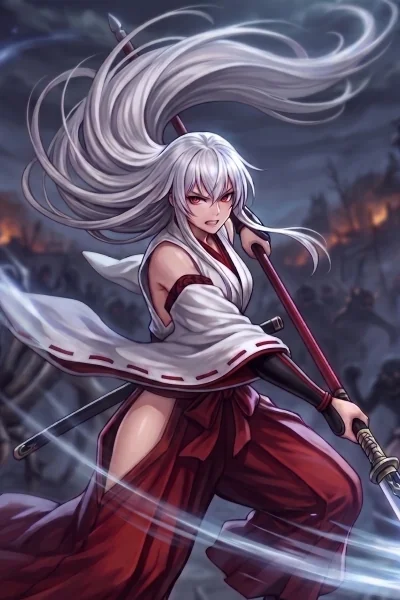
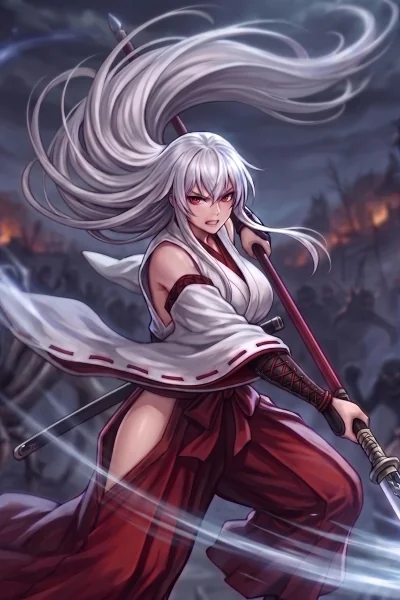
8/8 0.3 新キャラ追加 大二郎

diff --git a/src/services/uiMainCore.js b/src/services/uiMainCore.js
@@ -1489,13 +1489,22 @@ export function openEnemyDeckPreview(level) {
     const isLeaderSkillChanged =
       GameState.fortuneHandicaps &&
       GameState.fortuneHandicaps.enemy_leader_skill_change;
-    if (isLeaderSkillChanged && enemyCharId === 'automata') {
-      leaderSkill = {
-        name: 'ラスト・バタリオン',
-        desc: '(SP:3) 自分のレーンに「オートマタ(P:1)」を1体配置する。その後、そのレーンのカードをただちに攻撃させる。これを5回繰り返す。',
-        cost: 3,
-        action: 'last_battalion',
-      };
+    if (isLeaderSkillChanged) {
+      if (enemyCharId === 'automata') {
+        leaderSkill = {
+          name: 'ラスト・バタリオン',
+          desc: '(SP:3) 自分のレーンに「オートマタ(P:1)」を1体配置する。その後、そのレーンのカードをただちに攻撃させる。これを5回繰り返す。',
+          cost: 3,
+          action: 'last_battalion',
+        };
+      } else if (enemyCharId === 'valkyria') {
+        leaderSkill = {
+          name: 'ラグナロク',
+          desc: '(SP:4) 敵の場のすべてのカードに4ダメージを与える。次の自分のターン開始時まで、自分のカードは破壊されず、リーダーとカードが受ける全てのダメージを0にする。',
+          cost: 4,
+          action: 'ragnarok',
+        };
+      }
     }
 
     if (window.showEnemyDeckModal) {

diff --git a/src/pages/DialogueScreen.jsx b/src/pages/DialogueScreen.jsx
@@ -5,6 +5,11 @@ import { GameState } from '../state/gameState.js';
 import { appendVersionQuery } from '../utils/constants/config.js';
 import { checkIsFortuneMode, checkIsHighDiffMode } from '../utils/gameUtils.js';
 
+/**
+ * ダイアログ（会話）画面コンポーネント
+ * ストーリーや各イベント、試練の宮殿等の会話演出を表示する。
+ * @returns {JSX.Element} 会話画面コンポーネント
+ */
 export default function DialogueScreen() {
   const [dialogueData, setDialogueData] = useState(
     () => window.currentDialogueData || {}
@@ -92,7 +97,13 @@ export default function DialogueScreen() {
   ) {
     bgName = 'background_highdifficulty.webp';
   } else if (checkIsFortuneMode(GameState.gameMode)) {
-    bgName = 'background_fortune01.webp';
+    // 運命の邂逅イベント：対戦相手固有のステージ背景を優先参照する（設定がない場合は汎用背景 fallback）
+    const stageId =
+      GameState.selectedStageId ||
+      GameState.enemyConfig?.stageId ||
+      GameState.enemyConfig?.id ||
+      'fortune01';
+    bgName = `background_${stageId}.webp`;
   } else if (GameState.gameMode === 'defense_attack') {
     bgName = 'background_defense.webp';
   } else if (GameState.gameMode && GameState.gameMode.startsWith('story')) {

diff --git a/src/game/engine.js b/src/game/engine.js
@@ -4025,6 +4025,24 @@ export function applyLeaderSkillLogic(
     // 戦乙女の加護: 次の自分の攻撃フェーズ終了まで全ダメージ無効
     const guardKey = isBlue ? 'valkyriaGuardBlue' : 'valkyriaGuardRed';
     state[guardKey] = VALKYRIA_GUARD_TURNS;
+  } else if (action === 'ragnarok') {
+    events.push({ type: 'leader_skill', skill: action, side: owner });
+    // アンジェ「ラグナロク」用VFX演出
+    events.push({
+      type: 'vfx_trigger',
+      vfxId: 'anm_valkyria_guard',
+      side: owner,
+      lane: 1,
+    });
+    // 敵の場のすべてのカードに4ダメージを与える
+    for (let i = 0; i < 3; i++) {
+      if (eBoard[i]) {
+        damageCard(state, oppOwner, i, 4, 'ragnarok', events, true);
+      }
+    }
+    // 次の自分のターン開始時まで、自分のカードは破壊されず、リーダーとカードが受ける全てのダメージを0にする（加護付与）
+    const guardKey = isBlue ? 'valkyriaGuardBlue' : 'valkyriaGuardRed';
+    state[guardKey] = VALKYRIA_GUARD_TURNS;
   }
 
   processDestructionTriggers(state, events);

diff --git a/src/game/battle.js b/src/game/battle.js
@@ -898,6 +898,16 @@ export function initBattleState() {
                 action: 'last_battalion',
               },
             };
+          } else if (GameState.enemyConfig.id === 'valkyria') {
+            GameState.enemyConfig = {
+              ...GameState.enemyConfig,
+              leaderSkill: {
+                name: 'ラグナロク',
+                desc: '(SP:4) 敵の場のすべてのカードに4ダメージを与える。次の自分のターン開始時まで、自分のカードは破壊されず、リーダーとカードが受ける全てのダメージを0にする。',
+                cost: 4,
+                action: 'ragnarok',
+              },
+            };
           }
         }
       });

diff --git a/src/utils/constants/leaderSkills.js b/src/utils/constants/leaderSkills.js
@@ -104,6 +104,12 @@ export const LEADER_SKILLS = {
     cost: 4,
     action: 'valkyria_guard',
   },
+  ragnarok: {
+    name: 'ラグナロク',
+    desc: '(SP:4) 敵の場のすべてのカードに4ダメージを与える。次の自分のターン開始時まで、自分のカードは破壊されず、リーダーとカードが受ける全てのダメージを0にする。',
+    cost: 4,
+    action: 'ragnarok',
+  },
   // --- 高難易度用リーダースキル ---
   android_high_volley: {
     name: '一斉射撃',

diff --git a/src/game/ai.js b/src/game/ai.js
@@ -102,7 +102,8 @@ export async function executeEnemyAI() {
       ) {
         if (
           skill.action === 'annihilation' ||
-          skill.action === 'targeted_destruction'
+          skill.action === 'targeted_destruction' ||
+          skill.action === 'ragnarok'
         ) {
           // 相手の場にカードがある場合のみ使用（空撃ち防止）
           if (GameState.playerBoard.some((c) => c !== null)) {

diff --git a/scratch/webp_conversion_report.md b/scratch/webp_conversion_report.md
@@ -1,14 +1,14 @@
 # 高品質非可逆WebP一括変換レポート
 
-- 実行日時: 2026/8/8 22:44:18
+- 実行日時: 2026/8/9 9:41:38
 - 変換ファイル数: 1 件
-- 元の合計サイズ: **975.74 KB**
-- 変換後の合計サイズ: **474.08 KB**
-- 合計削減量: **501.66 KB**
-- 全体削減率: **51.41%**
+- 元の合計サイズ: **169.81 KB**
+- 変換後の合計サイズ: **33.15 KB**
+- 合計削減量: **136.65 KB**
+- 全体削減率: **80.48%**
 
 ## 詳細一覧
 
 | ファイルパス | 元のサイズ | 変換後のサイズ | 削減量 | 削減率 |
 | :--- | :--- | :--- | :--- | :--- |
-| public/assets/cards/card_dwarf_premium.jpg | 975.74 KB | 474.08 KB | 501.66 KB | 51.41% |
+| public/assets/cards/card_tomoe.jpg | 169.81 KB | 33.15 KB | 136.65 KB | 80.48% |
